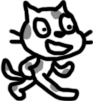
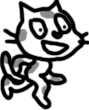
Add kick anim

diff --git a/index.js b/index.js
@@ -2,11 +2,15 @@ var canvas, ctx, center, velocity, prevSeconds, ballR, mouseVelocity, mousePos;
 
 var ball, cat, background, sand;
 
+var assets = "assets/";
+
 var dampening = 0.8;
 var gravity = 9.8;
 
+var lastKickTime = -10;
+var kickDuration = 0.5;
+
 function init() {
-  var assets = "assets/";
 
   canvas = document.getElementById('tutorial');
   canvas.width = window.innerWidth - 50;
@@ -60,6 +64,14 @@ function draw(){
   if (length(mousePos, center) < ballR * 2) {
     velocity[0] += mouseVelocity[0];
     velocity[1] += mouseVelocity[1];
+    lastKickTime = seconds;
+  }
+
+  if(seconds - lastKickTime < kickDuration) {
+    cat.src = assets + "cat02_kick.png";
+  }
+  else {
+    cat.src = assets + "cat02.png";
   }
 
   if(center[1] > 1.0 || center[1] < 0.0) {
